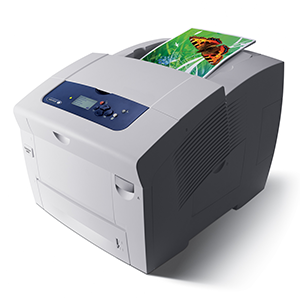
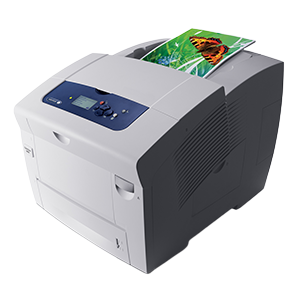
pequenos ajustes

diff --git a/equipamentos.html b/equipamentos.html
@@ -217,7 +217,6 @@
                                 <div class="sidebar__item">
                                     <h4>Fabricantes</h4>
                                     <ul class="list-style-none">
-                                        <li><a href="#">Boway</a></li>
                                         <li><a href="#">Brother</a></li>
                                         <li><a href="#">Epson</a></li>
                                         <li><a href="#">Gazela</a></li>
@@ -238,7 +237,7 @@
                                     <div class="col-md-4 col-sm-6">
                                         <div class="card mb-30"><a class="card-img-tiles" href="#" data-abc="true">
                                             <div class="inner">
-                                              <div class="main-img"><img src="assets/img/impressoras/B431dn.jpg" alt="Category"></div>
+                                              <div class="main-img"><img src="assets/img/impressoras/B431dn.png" alt="Category"></div>
                                             </div></a>
                                           <div class="card-body text-center">
                                             <h4 class="card-title">B431dn+</h4>
@@ -249,7 +248,7 @@
                                     <div class="col-md-4 col-sm-6">
                                         <div class="card mb-30"><a class="card-img-tiles" href="#" data-abc="true">
                                             <div class="inner">
-                                              <div class="main-img"><img src="assets/img/impressoras/C711n.jpg" alt="Category"></div>
+                                              <div class="main-img"><img src="assets/img/impressoras/C711n.png" alt="Category"></div>
                                             </div></a>
                                           <div class="card-body text-center">
                                             <h4 class="card-title">C711n</h4>
@@ -260,7 +259,7 @@
                                     <div class="col-md-4 col-sm-6">
                                         <div class="card mb-30"><a class="card-img-tiles" href="#" data-abc="true">
                                             <div class="inner">
-                                              <div class="main-img"><img src="assets/img/impressoras/C711WT.jpg" alt="Category"></div>
+                                              <div class="main-img"><img src="assets/img/impressoras/C711WT.png" alt="Category"></div>
                                             </div></a>
                                           <div class="card-body text-center">
                                             <h4 class="card-title">C711WT</h4>
@@ -271,7 +270,7 @@
                                     <div class="col-md-4 col-sm-6">
                                         <div class="card mb-30"><a class="card-img-tiles" href="#" data-abc="true">
                                             <div class="inner">
-                                              <div class="main-img"><img src="assets/img/impressoras/C831n.jpg" alt="Category"></div>
+                                              <div class="main-img"><img src="assets/img/impressoras/C831n.png" alt="Category"></div>
                                             </div></a>
                                           <div class="card-body text-center">
                                             <h4 class="card-title">C831n</h4>
@@ -282,7 +281,7 @@
                                     <div class="col-md-4 col-sm-6">
                                         <div class="card mb-30"><a class="card-img-tiles" href="#" data-abc="true">
                                             <div class="inner">
-                                              <div class="main-img"><img src="assets/img/impressoras/C941.jpg" alt="Category"></div>
+                                              <div class="main-img"><img src="assets/img/impressoras/C941.png" alt="Category"></div>
                                             </div></a>
                                           <div class="card-body text-center">
                                             <h4 class="card-title">C911</h4>
@@ -293,7 +292,7 @@
                                     <div class="col-md-4 col-sm-6">
                                         <div class="card mb-30"><a class="card-img-tiles" href="#" data-abc="true">
                                             <div class="inner">
-                                              <div class="main-img"><img src="assets/img/impressoras/C941.jpg" alt="Category"></div>
+                                              <div class="main-img"><img src="assets/img/impressoras/C941.png" alt="Category"></div>
                                             </div></a>
                                           <div class="card-body text-center">
                                             <h4 class="card-title">C941</h4>
@@ -304,7 +303,7 @@
                                     <div class="col-md-4 col-sm-6">
                                         <div class="card mb-30"><a class="card-img-tiles" href="#" data-abc="true">
                                             <div class="inner">
-                                              <div class="main-img"><img src="assets/img/impressoras/C941.jpg" alt="Category"></div>
+                                              <div class="main-img"><img src="assets/img/impressoras/C941.png" alt="Category"></div>
                                             </div></a>
                                           <div class="card-body text-center">
                                             <h4 class="card-title">C942</h4>
@@ -326,7 +325,7 @@
                                     <div class="col-md-4 col-sm-6">
                                         <div class="card mb-30"><a class="card-img-tiles" href="#" data-abc="true">
                                             <div class="inner">
-                                              <div class="main-img"><img src="assets/img/impressoras/ColorQube™-8580.png" alt="Category"></div>
+                                              <div class="main-img"><img src="assets/img/impressoras/ColorQube_8580.png" alt="Category"></div>
                                             </div></a>
                                           <div class="card-body text-center">
                                             <h4 class="card-title">ColorQube 8580</h4>
@@ -337,7 +336,7 @@
                                     <div class="col-md-4 col-sm-6">
                                         <div class="card mb-30"><a class="card-img-tiles" href="#" data-abc="true">
                                             <div class="inner">
-                                              <div class="main-img"><img src="assets/img/impressoras/ECOSYS_FS-C8650DN_HO_Digital-600x800.jpg" alt="Category"></div>
+                                              <div class="main-img"><img src="assets/img/impressoras/ECOSYS_FS-C8650DN_HO_Digital-600x800.png" alt="Category"></div>
                                             </div></a>
                                           <div class="card-body text-center">
                                             <h4 class="card-title">FS-C8650DN</h4>

diff --git a/index.html b/index.html
@@ -170,10 +170,10 @@
                                                 <p class="section-desc">Empresa com visão arrojada na prestação de serviços e comércio na área de informática. Possuindo equipe técnica altamente especializada e certificada por todos os maiores fabricantes, além de treinamento constante.</p>
                                             </div>
                                             <div class="wrap-btn intro-btns">
-                                                <a href="#" class="btn btn-with-icon btn-small ripple">
+                                                <a href="#" class="btn btn-small ripple">
                                                     <span>Sobre nós</span>
                                                 </a>
-                                                <a href="#" class="btn btn-with-icon btn-border btn-small ripple">
+                                                <a href="#" class="btn btn-border btn-small ripple">
                                                     <span>Nossos Serviços</span>
                                                 </a>
                                             </div>
@@ -225,9 +225,8 @@
                             </div>
                             <div class="col-12">
                                 <div class="section-btns justify-content-center">
-                                    <a href="#" class="btn btn-with-icon btn-w240 ripple">
+                                    <a href="#" class="btn btn-w240 ripple">
                                         <span>Mais Serviços</span>
-                                        <svg class="btn-icon-right" viewBox="0 0 13 9" width="13" height="9"><use xlink:href="assets/img/sprite.svg#arrow-right"></use></svg>
                                     </a>
                                 </div>
                             </div>
@@ -238,7 +237,7 @@
                 <!-- Seção das marcas-->
                 <section class="section">
                     <div class="container">
-                        <div class="row items">
+                        <div class="row items justify-content-center">
                             <div class="col-12">
                                 <div class="section-heading heading-center">
                                     <div class="section-subheading">Os Melhores</div>

diff --git a/abrir-chamado.html b/abrir-chamado.html
@@ -188,7 +188,6 @@
                                         Caso já possua esses dados <a href="http://dataserviceweb.ddns.net:8085/newdataservice/">Clique Aqui</a>.<br>
                                         Caso não possua <span class="badge text-bg-primary">usuário</span> e <span class="badge text-bg-primary">senha</span>, solicite preenchendo o formulário, <a href="contato.html">Clique Aqui</a>.
                                     </p>
-                                    
                                 </div>
                             </div>
                         </div>
